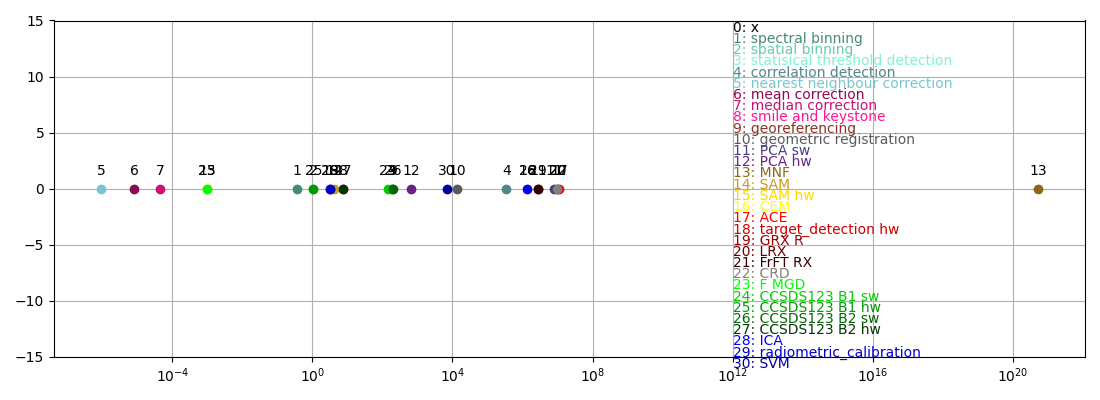
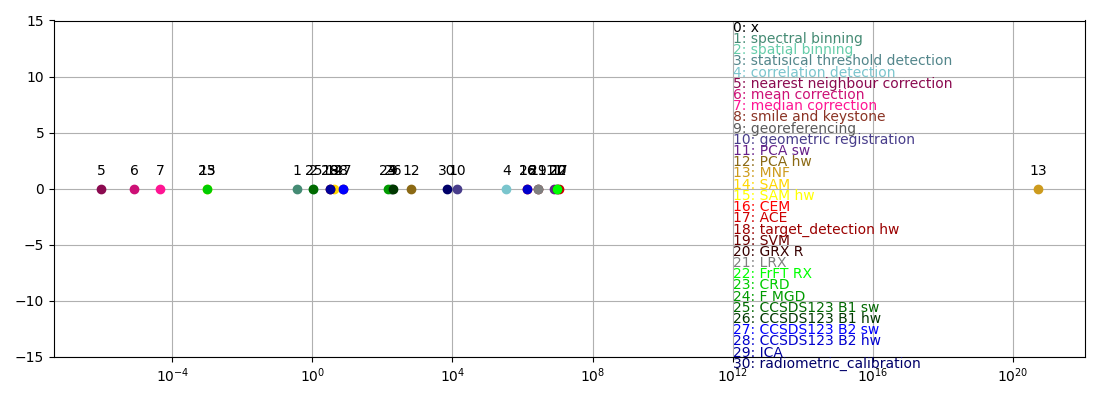
cost_withGrid update

diff --git a/python/designSpaceExploration/plots.py b/python/designSpaceExploration/plots.py
@@ -118,11 +118,11 @@ colors_6blue = [RGB(0,0,255), RGB(0,0,205), RGB(0,0,155), RGB(0,0,105), RGB(0,0,
 #x = [x, spectral_binning, spatial_binning, statisical_threshold_detection, correlation_detection, nearest_neighbour_correction, mean_correction, median_correction, smile_and_keystone, radiometric_calibration,\
 #georeferencing, geometric_registration, PCA_sw, PCA_hw, ICA, MNF, SAM, CEM, ACE_R, target_detection_hw, GRX_R, LRX, CCSDS123_B1_sw, CCSDS123_B1_hw, CCSDS123_B2_sw, CCSDS123_B2_hw]
 
-colors_costs = ["black", colors_3turkis[0], colors_3turkis[1], colors_3turkis[2], colors_3ligthblue[0], colors_3ligthblue[1], colors_3pink[0], colors_3pink[1], colors_3pink[2], colors_5brown[0], colors_5gray[1], \
+colors_costs = ["black", colors_3turkis[0], colors_3turkis[1], colors_3ligthblue[0], colors_3ligthblue[1], colors_3pink[0], colors_3pink[1], colors_3pink[2], colors_5brown[0], colors_5gray[1], \
 colors_5purple[0], colors_5purple[1], colors_yellow[0], colors_yellow[1], colors_yellow[2], colors_yellow[3], colors_6red[0], colors_6red[1], colors_6red[2], colors_6red[3], colors_6red[4], \
-"grey", colors_6green[0], colors_6green[1], colors_6green[2], colors_6green[3], colors_6green[4], colors_6blue[0], colors_6blue[1], colors_6blue[2], colors_6blue[3], colors_1crimson[0], colors_yellow[4]]
+"grey", colors_6green[0], colors_6green[1], colors_6green[2], colors_6green[3], colors_6green[4], colors_6blue[0], colors_6blue[1], colors_6blue[2], colors_6blue[3], colors_1crimson[0], colors_yellow[4], colors_3turkis[2]]
 
-algorithms_names = ["x", "spectral binning", "spatial binning", "statisical threshold detection", "correlation detection", "nearest neighbour correction", "mean correction", "median correction", "smile and keystone", "georeferencing", "geometric registration", "PCA sw", "PCA hw", "MNF", "SAM", "SAM hw", "CEM", "ACE", "target_detection hw", "GRX R","LRX", "FrFT RX", "CRD", "F MGD", "CCSDS123 B1 sw", "CCSDS123 B1 hw","CCSDS123 B2 sw", "CCSDS123 B2 hw", "ICA", "radiometric_calibration", "SVM"]
+algorithms_names = ["x", "spectral binning", "spatial binning", "statisical threshold detection", "correlation detection", "nearest neighbour correction", "mean correction", "median correction", "smile and keystone", "georeferencing", "geometric registration", "PCA sw", "PCA hw", "MNF", "SAM", "SAM hw", "CEM", "ACE", "target_detection hw", "SVM", "GRX R","LRX", "FrFT RX", "CRD", "F MGD", "CCSDS123 B1 sw", "CCSDS123 B1 hw","CCSDS123 B2 sw", "CCSDS123 B2 hw", "ICA", "radiometric_calibration"]
 algorithms = [x_, spectral_binning, spatial_binning, statisical_threshold_detection, correlation_detection, nearest_neighbour_correction, mean_correction, median_correction, smile_and_keystone, georeferencing, geometric_registration, PCA_sw, PCA_hw, MNF, SAM, SAM_hw, CEM, ACE_R, target_detection_hw, GRX_R, LRX, FrFT_RX, CRD, F_MGD, CCSDS123_B1_sw, CCSDS123_B1_hw,CCSDS123_B2_sw, CCSDS123_B2_hw, ICA, radiometric_calibration,  SVM]
 
 ############### PLOTS ##############
@@ -140,8 +140,8 @@ for i in range(0, len(algorithms)):
 plt.grid()
 plt.ylim(-15,15)
 plt.xscale("log")
-#plt.show()
-plt.savefig("plot_cost_withGrid.png")
+plt.show()
+#plt.savefig("plot_cost_withGrid.png")
 """
 
 #### zoomed in ####
